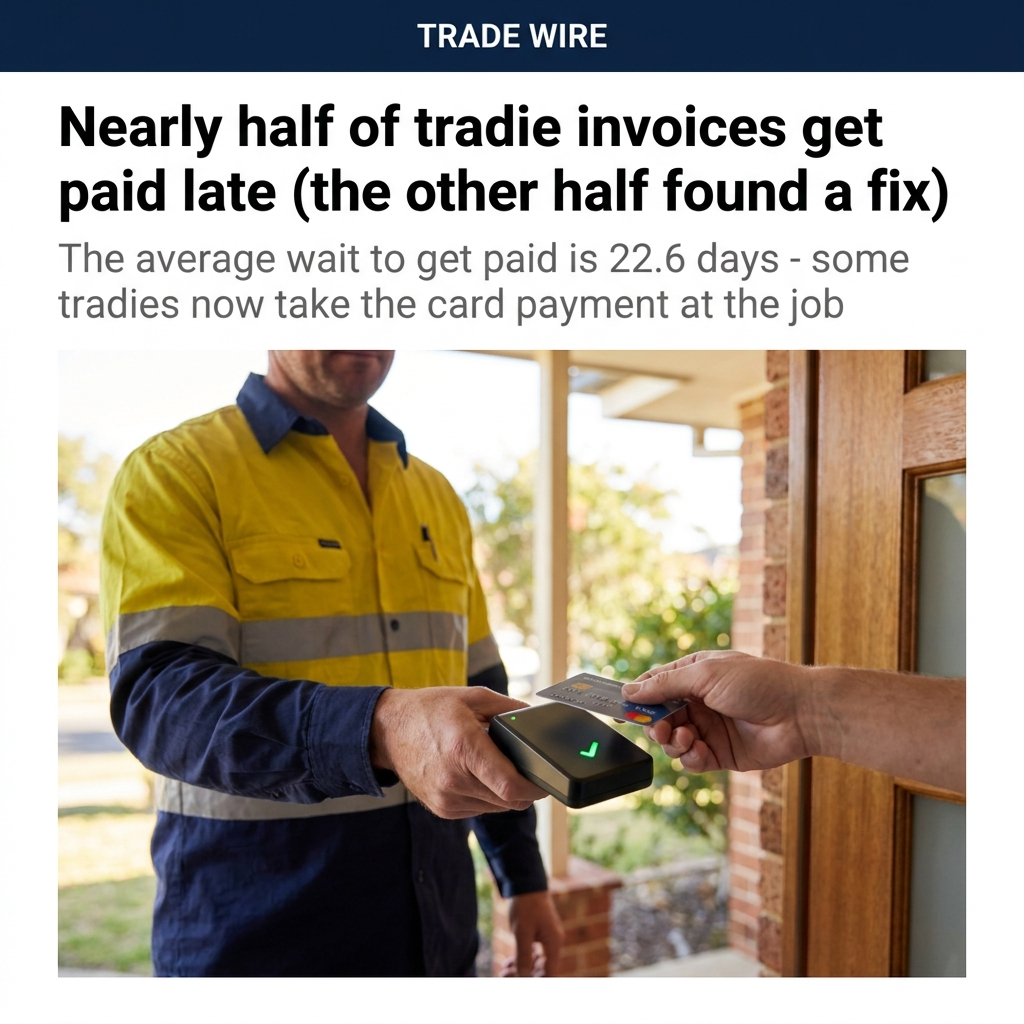
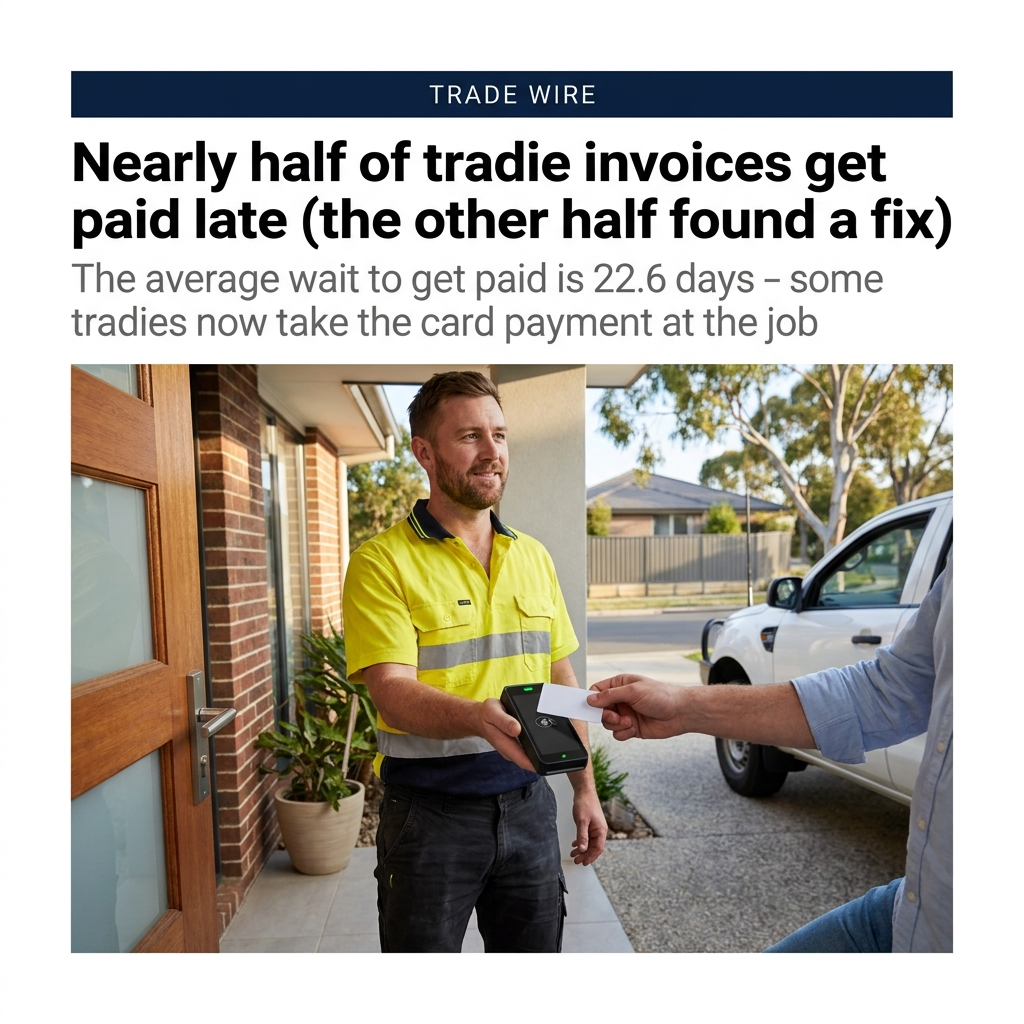
feat(ads): TV-broadcast news variant + trademark/framing fixes
qm-b1-tvnews (new): Tom asked for something resembling Seven/Nine. Cloning a
real broadcaster is trademark infringement, misleading conduct under Australian
Consumer Law, and a Meta policy breach for implying an endorsement we don't
have - so this reproduces what actually makes the format work (the visual
grammar of TV news: BREAKING flag, lower third, station bug) with a clearly
fictional network, "TW NEWS". The prompt explicitly forbids evoking any real
broadcaster's name, logo, numerals, colours or on-screen styling.

qm-f1-news: the bank card carried a real Mastercard logo - a live trademark in
a paid ad - and the tradie's head was cropped above the mouth, reading as a
framing error. Card is now blank, subject fully in frame.

qm-b1-news-inset: the circle had over-corrected to the point of cropping the
photo and eating a third of the image. Now spans about a quarter width and
sits inside the photo bounds.

diff --git a/marketing/ad-creative/generate.py b/marketing/ad-creative/generate.py
@@ -117,7 +117,10 @@ ADS = {
         "22.6 days - some tradies now take the card payment at the job'. "
         "Under the text, a news-style photo taken at an Australian front door: a tradesperson in a "
         "hi-vis shirt holds out a small plain card reader and a customer taps a bank card against it. "
-        "The card reader has a single small green tick light and no writing on it. Warm natural "
+        "The card reader has a single small green tick light and no writing on it. The bank card is a "
+        "plain blank card: it carries NO card-network logo, no interlocking circles, no numbers and no "
+        "lettering of any kind. The tradesperson's whole head and face are inside the frame - the top "
+        "of the head is NOT cropped off. Warm natural "
         "daylight, real and unstaged. No paperwork, no calendar, no invoice and no desk in the shot. "
         "Crisp editorial layout. All text exactly as specified, spelled correctly."
     ),
@@ -179,11 +182,37 @@ ADS = {
         "and paper sit SMALL within it: a hand lifts a slightly creased piece of paper out of an "
         "upturned yellow hard hat, the paper tilted steeply away from the camera so the handwritten "
         "marker scrawl on it is small and foreshortened - you can see a price is written there but you "
-        "cannot read it. Overlaid on the photo's top-right corner is a large red-ringed circular inset "
+        "cannot read it. Overlaid on the photo's top-right corner is a MODEST red-ringed circular inset "
+        "- it spans roughly one quarter of the photo's width, sits entirely inside the photo's bounds, "
+        "and does not crop the photo or cover the hand and hard hat - "
         "containing a zoomed, straightened close-up of that SAME piece of paper, where the handwritten "
-        "'$1500' is now big and perfectly readable. A hand-drawn style red arrow runs from the circle "
+        "'$1500' is big and perfectly readable. A hand-drawn style red arrow runs from the circle "
         "down to the small paper. Crisp editorial layout. The headline and subheadline text is exactly "
         "as specified and spelled correctly."
+    ),
+    # TV-broadcast variant (added 29 Jul at Tom's request). He asked for something
+    # that looks "super similar" to Seven/Nine - which would be trademark
+    # infringement, misleading conduct under Australian Consumer Law, and a Meta
+    # policy breach for implying a broadcaster endorsed us. What actually drives
+    # the format is the VISUAL GRAMMAR of TV news - breaking flag, lower third,
+    # station bug - so this reproduces that with a clearly fictional network.
+    # Never name, style or imply a real broadcaster.
+    "qm-b1-tvnews": (
+        "A square graphic that looks like a still frame captured from an Australian television news "
+        "bulletin. The underlying image is field-camera footage of a tradesperson in a hi-vis shirt "
+        "standing in front of a suburban brick house on a residential job site in bright daylight, "
+        "shot like a TV news reporter's piece to camera. "
+        "Across the bottom third sits a broadcast lower-third graphic: on the left a bold red "
+        "rectangular flag containing the single word 'BREAKING' in white capitals; beside it a dark "
+        "navy bar carrying two lines of white sans-serif text - the first line large and bold in "
+        "capitals reading 'TRADIES DITCH THE LATE-NIGHT QUOTE GRIND', the second line smaller reading "
+        "'Four-hour quotes now taking four minutes'. Beneath the bar runs a thin lighter-blue strip "
+        "with no text on it. "
+        "In the top-right corner a small clean station identifier reads 'TW NEWS' in white - this is a "
+        "fictional network. Do NOT use, imitate or evoke the name, logo, numerals, colour scheme or "
+        "on-screen styling of any real television network or broadcaster. "
+        "Subtle broadcast video grain, slightly soft focus, realistic television picture quality. "
+        "All text exactly as specified and spelled correctly."
     ),
 }
 
